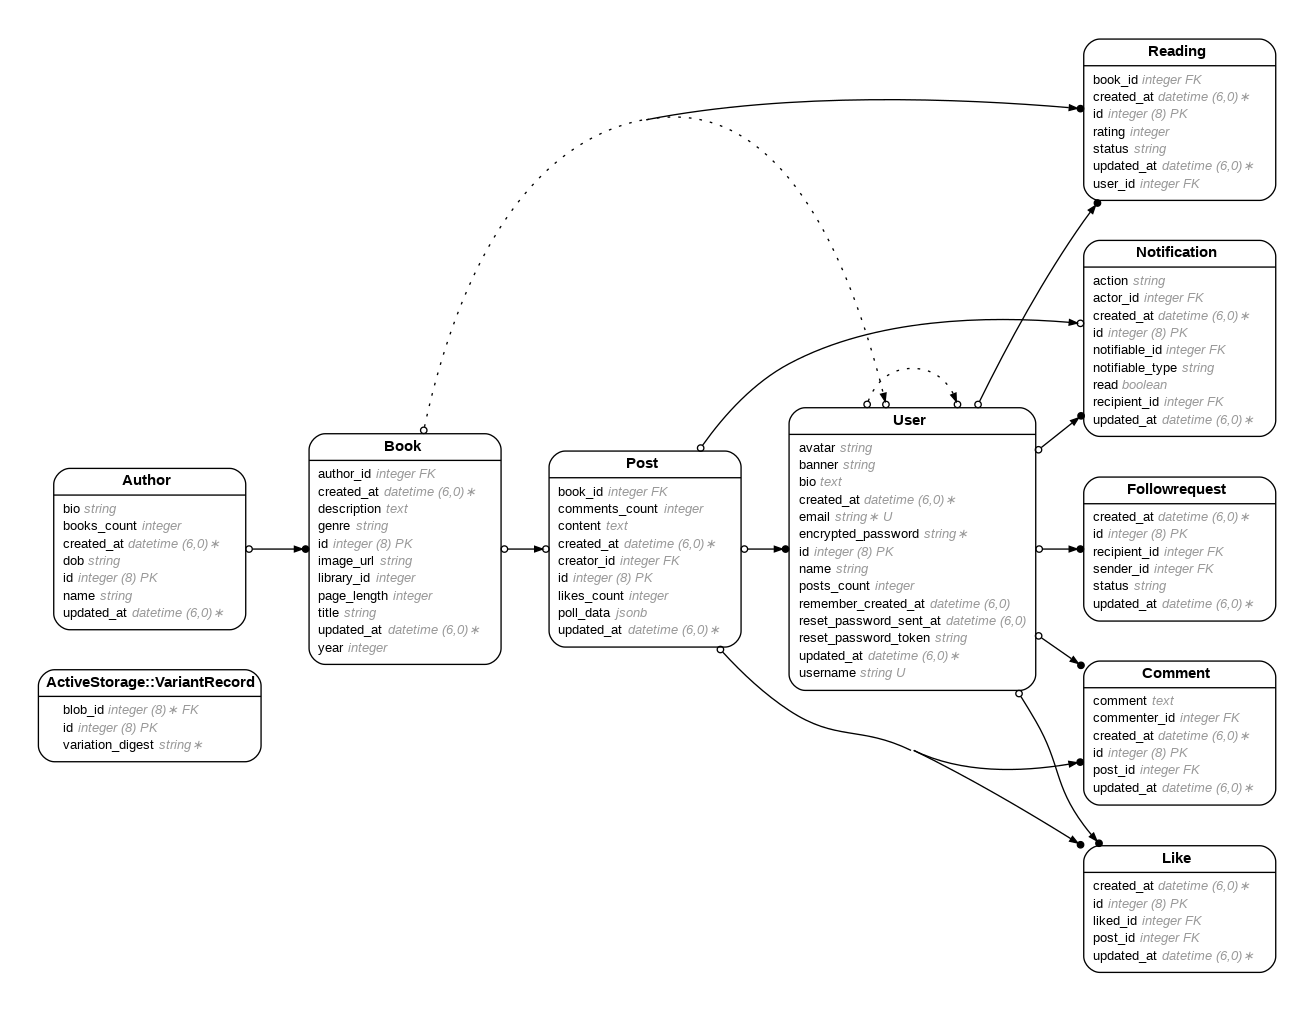
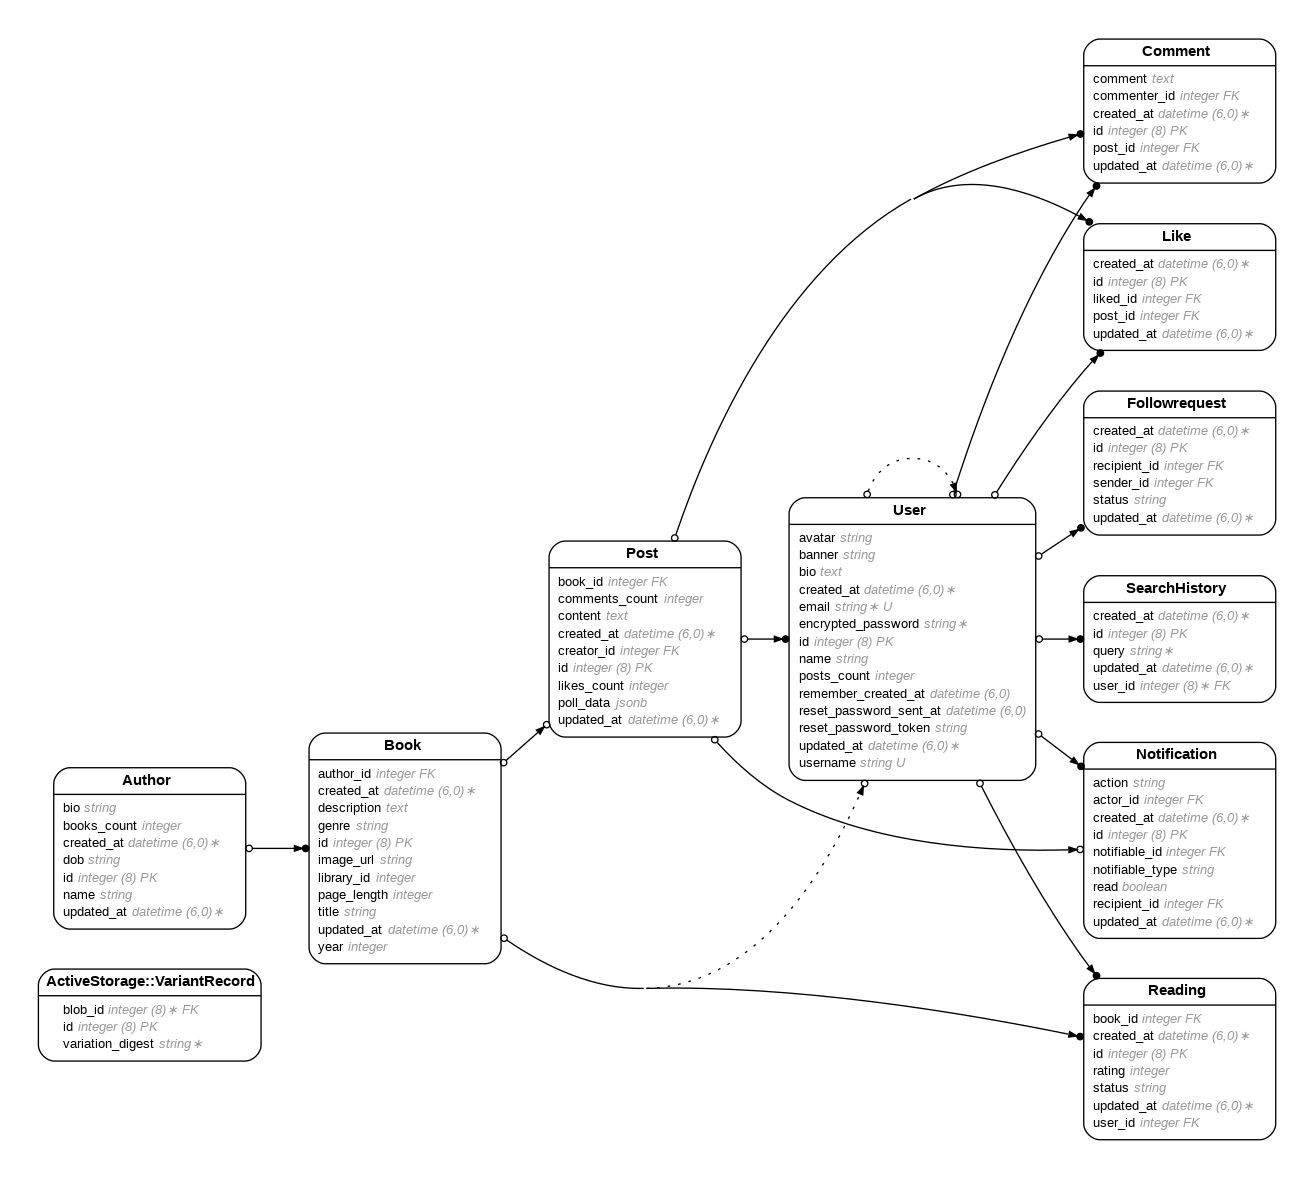
Migrated new tables

diff --git a/app/models/search_history.rb b/app/models/search_history.rb
@@ -1,3 +1,21 @@
+# == Schema Information
+#
+# Table name: search_histories
+#
+#  id         :bigint           not null, primary key
+#  query      :string
+#  created_at :datetime         not null
+#  updated_at :datetime         not null
+#  user_id    :bigint           not null
+#
+# Indexes
+#
+#  index_search_histories_on_user_id  (user_id)
+#
+# Foreign Keys
+#
+#  fk_rails_...  (user_id => users.id)
+#
 class SearchHistory < ApplicationRecord
   belongs_to :user
 

diff --git a/db/schema.rb b/db/schema.rb
@@ -10,7 +10,7 @@
 #
 # It's strongly recommended that you check this file into your version control system.
 
-ActiveRecord::Schema[7.1].define(version: 2025_07_02_000000) do
+ActiveRecord::Schema[7.1].define(version: 2025_07_03_000000) do
   # These are extensions that must be enabled in order to support this database
   enable_extension "plpgsql"
 
